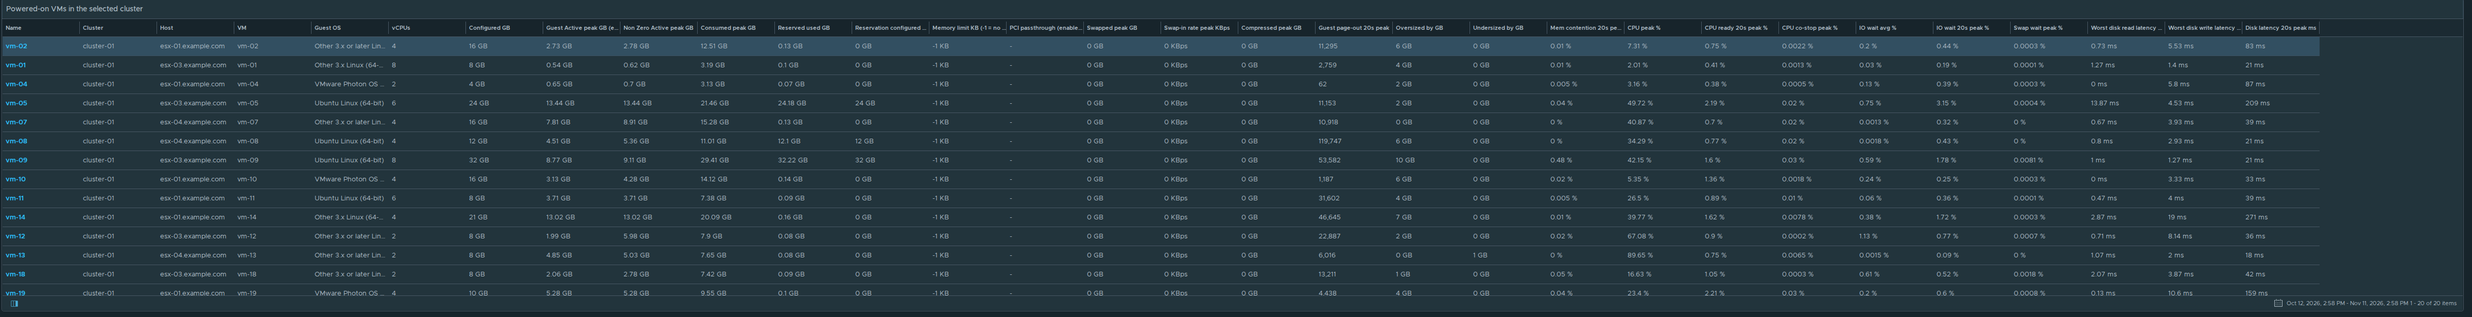
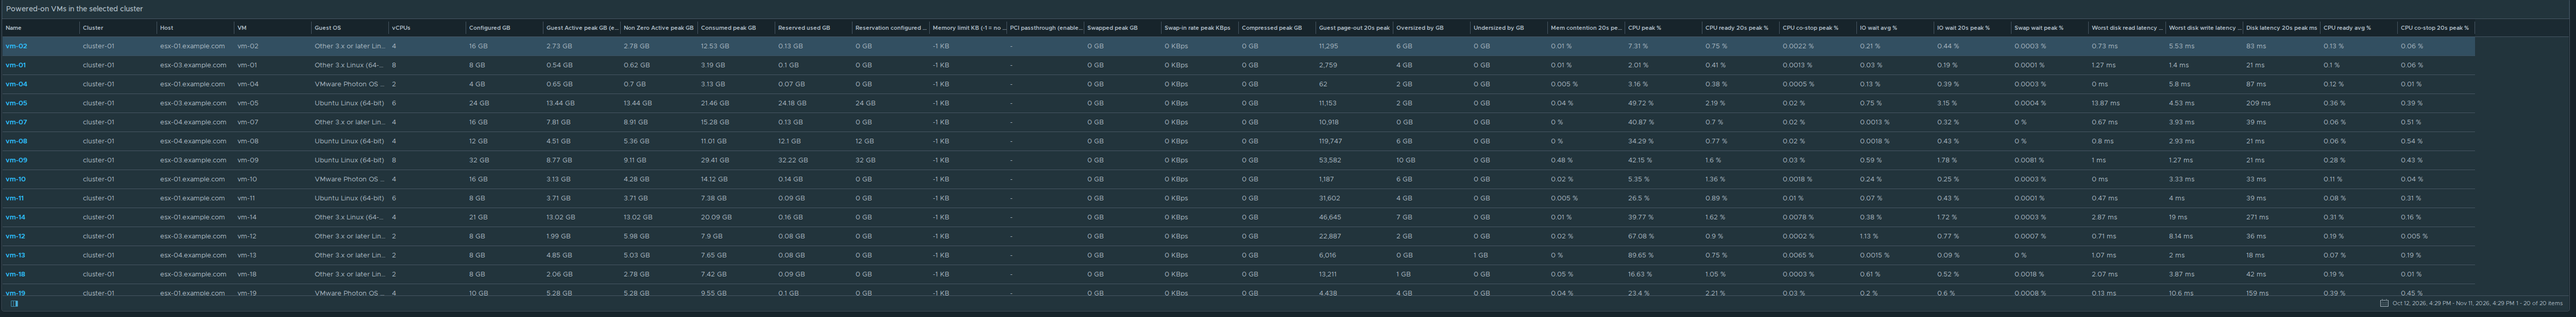
docs: Memory Pressure dashboard folder; rc.4 screenshots of both dashboards (names redacted)

diff --git a/docs/dashboards/memory-pressure/README.md b/docs/dashboards/memory-pressure/README.md
@@ -1,0 +1,41 @@
+# Memory Tier Advanced › Memory Pressure
+
+Which clusters are **out of memory now**. Every column covers the **last 24 hours** (peak of 5-minute samples); tables open worst first, and the % columns turn yellow, orange and red. **Click a cluster**; its running hosts and the VMs that waited for memory follow. The two text panels at the bottom explain each column and list the steps the pak can't do by itself.
+
+The text of both panels is in [text-panels.txt](text-panels.txt). The same cluster table ships as the report **Memory Tier Advanced - Cluster Memory Pressure** (PDF and CSV): Reports, run it on vSphere World or schedule it.
+
+Screenshots: Aria Operations 8.18.7, v3.0.0-rc.4, lab data (no cluster on the lab is short of memory, so every cell is green). Object names are replaced: `cluster-01`, `esx-NN.example.com`, `vm-NN`.
+
+![Whole dashboard](0-full-dashboard.png)
+
+## Clusters, worst first (click one)
+
+Busiest host memory workload % (sorted on this), cluster memory workload %, Operations' capacity remaining and time remaining, its own non-green flag, memory contention (worst VM, % of VMs, cluster), balloon, swap-in and swap-out rates, compressed, and machine demand beside Guest Active and consumed.
+
+![Clusters](1-clusters.png)
+
+All 19 columns: [1-clusters-all-columns.png](1-clusters-all-columns.png)
+
+## Hosts in the selected cluster
+
+Running hosts, fullest first: memory workload %, contention, reclaim, demand, active, consumed and usage.
+
+![Hosts](2-hosts.png)
+
+All 14 columns: [2-hosts-all-columns.png](2-hosts-all-columns.png)
+
+## VMs in the selected cluster, most contended first
+
+Powered-on VMs: memory contention (20-second peak and average), swapped, swap-in, compressed, swap wait %, memory workload %, configured GB, CPU ready and IO wait %.
+
+![VMs](3-vms.png)
+
+All 12 columns: [3-vms-all-columns.png](3-vms-all-columns.png)
+
+## How to read this
+
+![How to read this](4-how-to-read-this.png)
+
+## Complete the install
+
+![Complete the install](5-complete-the-install.png)
